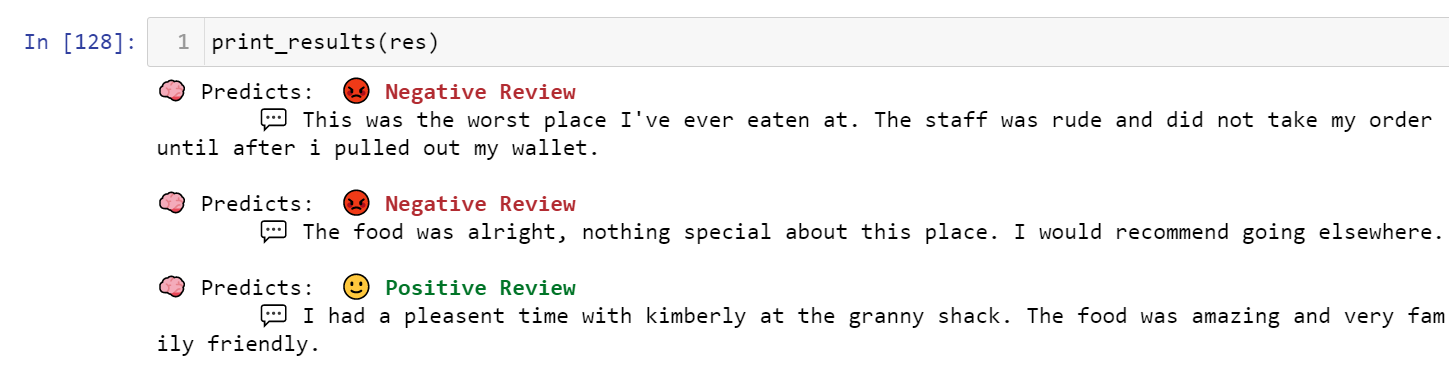
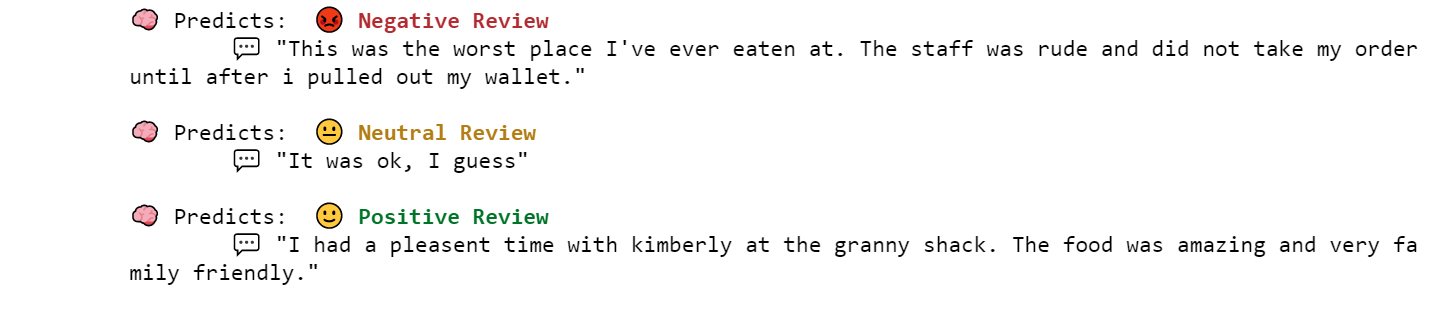
Added files

Changed region(s): [[0.0936, 0.367, 0.9986, 0.9174], [0.0, 0.0, 0.9986, 0.3364]]

diff --git a/README.md b/README.md
@@ -177,15 +177,13 @@ After the model was trained, I fed it some reviews I found online to test out wh
 ```python
 new_test_data = [
     "This was the worst place I've ever eaten at. The staff was rude and did not take my order until after i pulled out my wallet.",
-    "The food was alright, nothing special about this place. I would recommend going elsewhere.",
+    "It was ok, I guess",
     "I had a pleasent time with kimberly at the granny shack. The food was amazing and very family friendly.",
 ]
 res = model.prediction(new_test_data)
 ```
 
-Below is the results of the prediction, notice that the neutral review has been labeled as negative. This makes sense since the model has a poor recall for neutral reviews as shown in the classification report.
-
-<img src="./resources/results.PNG" alt="Results from the prediction" style="zoom:150%;" />
+Below is a screenshot of the results when feed into the LinearSVC model for predictions.<img src="./resources/results.PNG" alt="Results from the prediction" style="zoom:150%;" />
 
 
 
@@ -197,5 +195,5 @@ There are some improvements to be made such as the following:
   * This can be seen in the confusion matrix for the candidate models and other models created that the predictions come out more positive than negative or neutral.
   * While having poor scores in the neutral category, the most important features are found in the negative and positive predictions for business applications.
 * **Hyper-parametrization improvement**
-  * Logistic Regression and Multinomial NB models produced models within a reasonable time frame while returning reasonable scores. Random Forrest Classifier and SVM took a **significant** amount of time to produce just one iteration. In order to produce results from this model, StratifiedKFold was not used in these two models. Changing SVM to LinearSVC improved performance dramatically and replaced the SVM model and outperformed Logistic Regression which was the original candidate model.
+  * Logistic Regression and Multinomial NB models produced models within a reasonable time frame while returning reasonable scores. Random Forrest Classifier and SVM took a **significant** amount of time to produce just one iteration. In order to produce results from this model, StratifiedKFold was not used in these two models. Changing SVM to LinearSVC improved performance dramatically and replaced the SVM model and outperformed the Logistic Regression model by a small margin which was the original candidate model.
 
